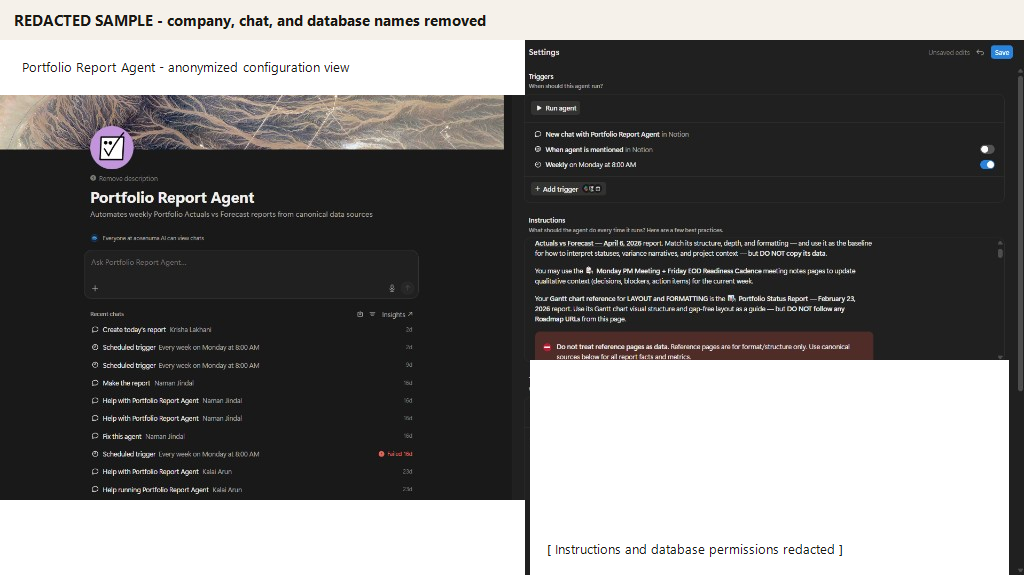
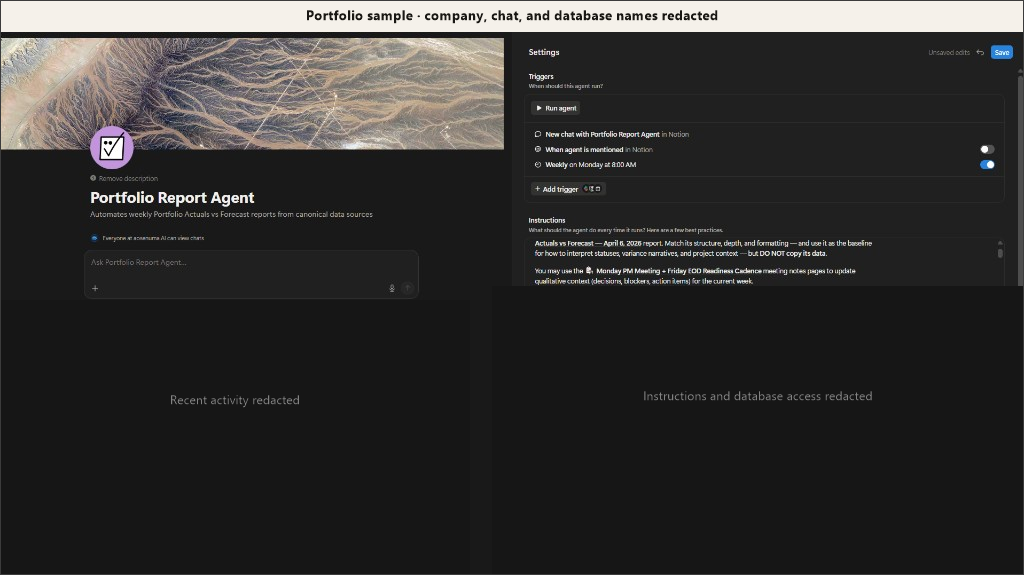
Fix Project 2 screenshot alignment and rebuild cleaner redaction overlays.

diff --git a/Shrey's Portfolio.html b/Shrey's Portfolio.html
@@ -696,9 +696,29 @@ section { padding: var(--space-section) 0; border-top: 1px solid var(--rule); }
 }
 .project-visual {
   margin: 0 0 2rem;
-  max-width: min(720px, 100%);
+  width: 100%;
+  max-width: 100%;
 }
 .project-visual .photo-frame { aspect-ratio: 16/10; }
+.project-visual .photo-frame--screenshot {
+  aspect-ratio: 1024 / 575;
+  max-width: 100%;
+  background: #1a1a1a;
+  border-color: var(--rule);
+  box-shadow: 0 8px 28px rgba(26, 24, 20, 0.08);
+}
+.project-visual .photo-frame--screenshot img {
+  width: 100%;
+  height: auto;
+  object-fit: contain;
+  filter: none;
+}
+.project-visual .photo-frame--screenshot::after { display: none; }
+.project-visual .photo-frame--screenshot:hover img {
+  filter: none;
+  transform: none;
+}
+.project-visual .photo-caption { margin-top: 0.65rem; }
 @media (max-width: 720px) { .project { grid-template-columns: 1fr; gap: 1.5rem; } }
 
 /* =========================================================
@@ -1314,8 +1334,8 @@ footer {
           <a class="project-link" href="samples/Portfolio_Actuals_vs_Forecast_June_2026_Redacted.pdf" target="_blank" rel="noopener">View redacted sample report (PDF) ↗</a>
         </div>
         <figure class="project-visual">
-          <div class="photo-frame">
-            <img src="images/portfolio-report-agent-setup-redacted.png" alt="Redacted Notion custom agent setup for portfolio reporting automation" width="720" height="450" loading="lazy">
+          <div class="photo-frame photo-frame--screenshot">
+            <img src="images/portfolio-report-agent-setup-redacted.png" alt="Redacted Notion custom agent setup for portfolio reporting automation" width="1024" height="575" loading="lazy">
           </div>
           <figcaption class="photo-caption">Agent setup (redacted) · weekly trigger + canonical Notion sources</figcaption>
         </figure>

diff --git a/index.html b/index.html
@@ -696,9 +696,29 @@ section { padding: var(--space-section) 0; border-top: 1px solid var(--rule); }
 }
 .project-visual {
   margin: 0 0 2rem;
-  max-width: min(720px, 100%);
+  width: 100%;
+  max-width: 100%;
 }
 .project-visual .photo-frame { aspect-ratio: 16/10; }
+.project-visual .photo-frame--screenshot {
+  aspect-ratio: 1024 / 575;
+  max-width: 100%;
+  background: #1a1a1a;
+  border-color: var(--rule);
+  box-shadow: 0 8px 28px rgba(26, 24, 20, 0.08);
+}
+.project-visual .photo-frame--screenshot img {
+  width: 100%;
+  height: auto;
+  object-fit: contain;
+  filter: none;
+}
+.project-visual .photo-frame--screenshot::after { display: none; }
+.project-visual .photo-frame--screenshot:hover img {
+  filter: none;
+  transform: none;
+}
+.project-visual .photo-caption { margin-top: 0.65rem; }
 @media (max-width: 720px) { .project { grid-template-columns: 1fr; gap: 1.5rem; } }
 
 /* =========================================================
@@ -1314,8 +1334,8 @@ footer {
           <a class="project-link" href="samples/Portfolio_Actuals_vs_Forecast_June_2026_Redacted.pdf" target="_blank" rel="noopener">View redacted sample report (PDF) ↗</a>
         </div>
         <figure class="project-visual">
-          <div class="photo-frame">
-            <img src="images/portfolio-report-agent-setup-redacted.png" alt="Redacted Notion custom agent setup for portfolio reporting automation" width="720" height="450" loading="lazy">
+          <div class="photo-frame photo-frame--screenshot">
+            <img src="images/portfolio-report-agent-setup-redacted.png" alt="Redacted Notion custom agent setup for portfolio reporting automation" width="1024" height="575" loading="lazy">
           </div>
           <figcaption class="photo-caption">Agent setup (redacted) · weekly trigger + canonical Notion sources</figcaption>
         </figure>
